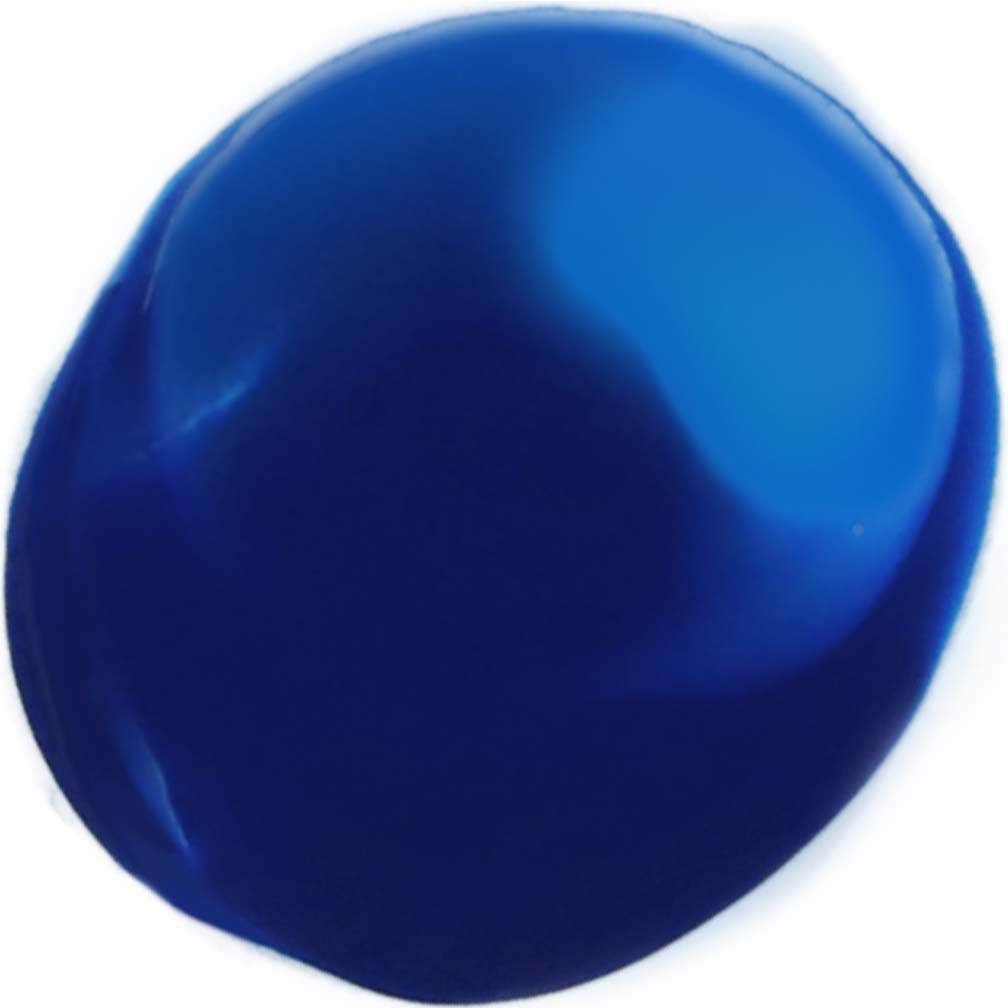
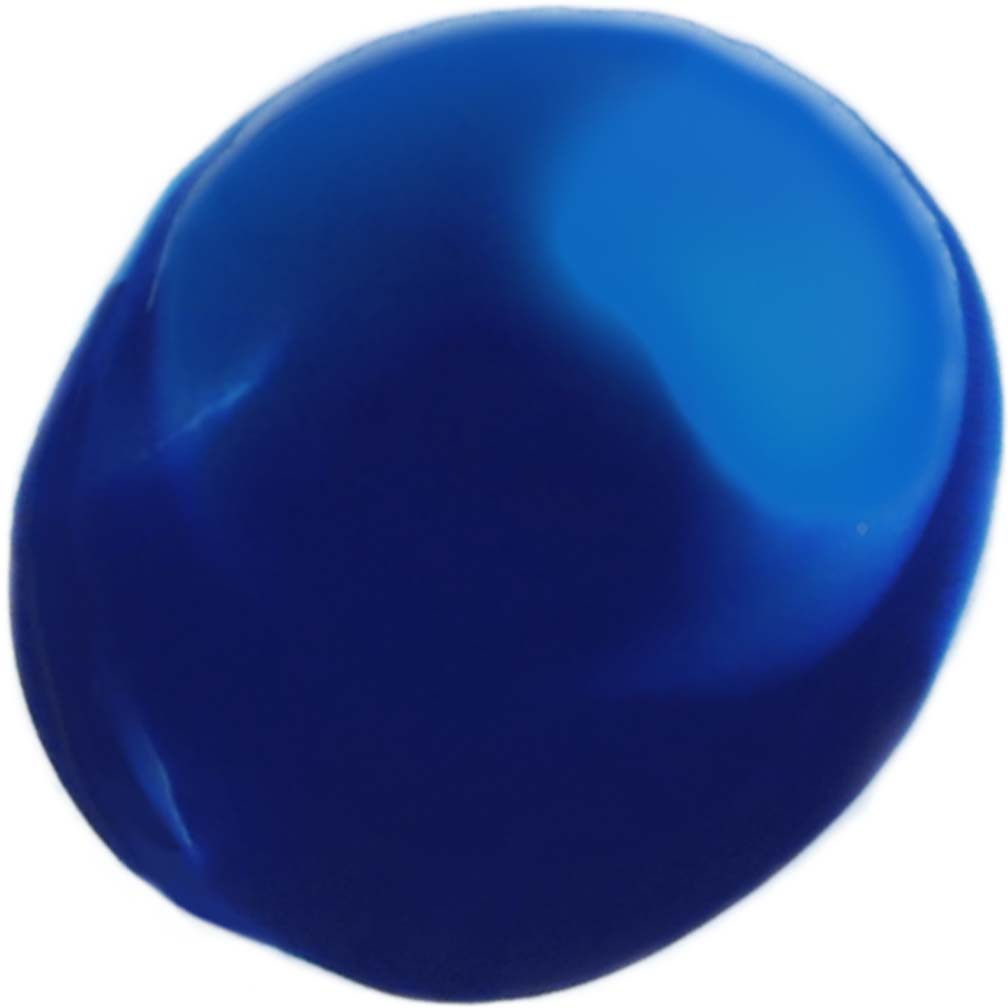
[!]

diff --git a/demo/ceo/js/js.js b/demo/ceo/js/js.js
@@ -32,7 +32,7 @@ $(document).ready(function(){
 	
 	function canvas_create(){
 	
-	renderer = PIXI.autoDetectRenderer(640, 1008);
+	renderer = PIXI.autoDetectRenderer(750, 1334);
     renderer.view.style.position = "absolute"
     renderer.view.style.width = window.innerWidth + "px";
     renderer.view.style.height = window.innerHeight + "px";
@@ -61,8 +61,8 @@ $(document).ready(function(){
 	
     var img_list=["images/drop_1.jpg","images/drop_2.jpg","images/drop_3.jpg","images/drop_4.jpg"];
 	var drop_list=[];
-	var x=320;
-	var y=504;
+	var x=375;
+	var y=667;
    
     for(var i=0;i<img_list.length;i++){
 		drop_list.push(PIXI.Sprite.fromImage(img_list[i]));
@@ -108,7 +108,7 @@ $(document).ready(function(){
 				drop_list[1].alpha=1;
 			}
 		}
-		if(scale_counter>=100){
+		if(scale_counter>=90){
 			drop_list[1].alpha-=0.02;
 			if(drop_list[1].alpha<=0){
 				drop_list[1].alpha=0;
@@ -119,7 +119,7 @@ $(document).ready(function(){
 				drop_list[2].alpha=1;
 			}
 		}
-		if(scale_counter>=180){
+		if(scale_counter>=160){
 			drop_list[2].alpha-=0.02;
 			if(drop_list[2].alpha<=0){
 				drop_list[2].alpha=0;
@@ -133,8 +133,8 @@ $(document).ready(function(){
 		
 		for(var number=0;number<drop_list.length;number++){
 			if(drop_list[number].scale.x/*<1&&drop.scale.x>0*/){
-				drop_list[number].scale.x+=0.007*(1-scale_counter/600);
-				drop_list[number].scale.y+=0.007*(1-scale_counter/600);
+				drop_list[number].scale.x+=0.009*(1-scale_counter/600);
+				drop_list[number].scale.y+=0.009*(1-scale_counter/600);
 				//drop_list[number].alpha=1-scale_counter/3200;
 				drop_list[number].rotation+=0.0014;
 			}
@@ -145,7 +145,7 @@ $(document).ready(function(){
 			}
 		}
 		
-		if(scale_counter>=250){
+		if(scale_counter>=230){
 			clearInterval(timer_scale);
 			coverFadeIn();
 		}

diff --git a/demo/ceo/css/style.css b/demo/ceo/css/style.css
@@ -23,6 +23,15 @@ html,body{ height:100%; width:100%; overflow:hidden; position: relative;}
 
 .page_arrow{ display:block; height:19px; width:25px; background:url(../images/page_arrow.png) no-repeat 0 0; position:absolute; left:50%; margin-left:-12px; bottom:20px; z-index:10; background-size:contain; text-indent:-9999px; overflow:hidden; opacity:0;}
 
+.wrap_show .main_title{ -webkit-animation:a_main_title 0.3s 5.9s linear both;}
+.wrap_show .sub_title{ -webkit-animation:a_main_title 0.3s 6.2s linear both;}
+
+@-webkit-keyframes a_main_title{
+	0%{opacity:0;}
+	100%{opacity:1;}
+}
+
+
 .con_wrap .page_title{ display:block; color:#f4f1e7; font-size:18px; font-weight:bold; font-family:'Arial','microsoft yahei'; position:absolute; left:50px; top:50px;}
 .con_wrap .foreword{ display:block; color:#f4f1e7; font-size:16px; font-weight:normal; font-family:'Arial','microsoft yahei'; position:absolute; left:50px; top:50%; margin-top:-105px; line-height:1.7;}
 

diff --git a/demo/ceo/index.html b/demo/ceo/index.html
@@ -10,7 +10,7 @@
 <link rel="stylesheet" type="text/css" href="css/style.css"/>
 
 <body>
-<div class="num">0</div>
+<!--<div class="num">0</div>-->
 
 <div class="wrap">
 	<div class="con_wrap con_wrap_1 wrap_show">
